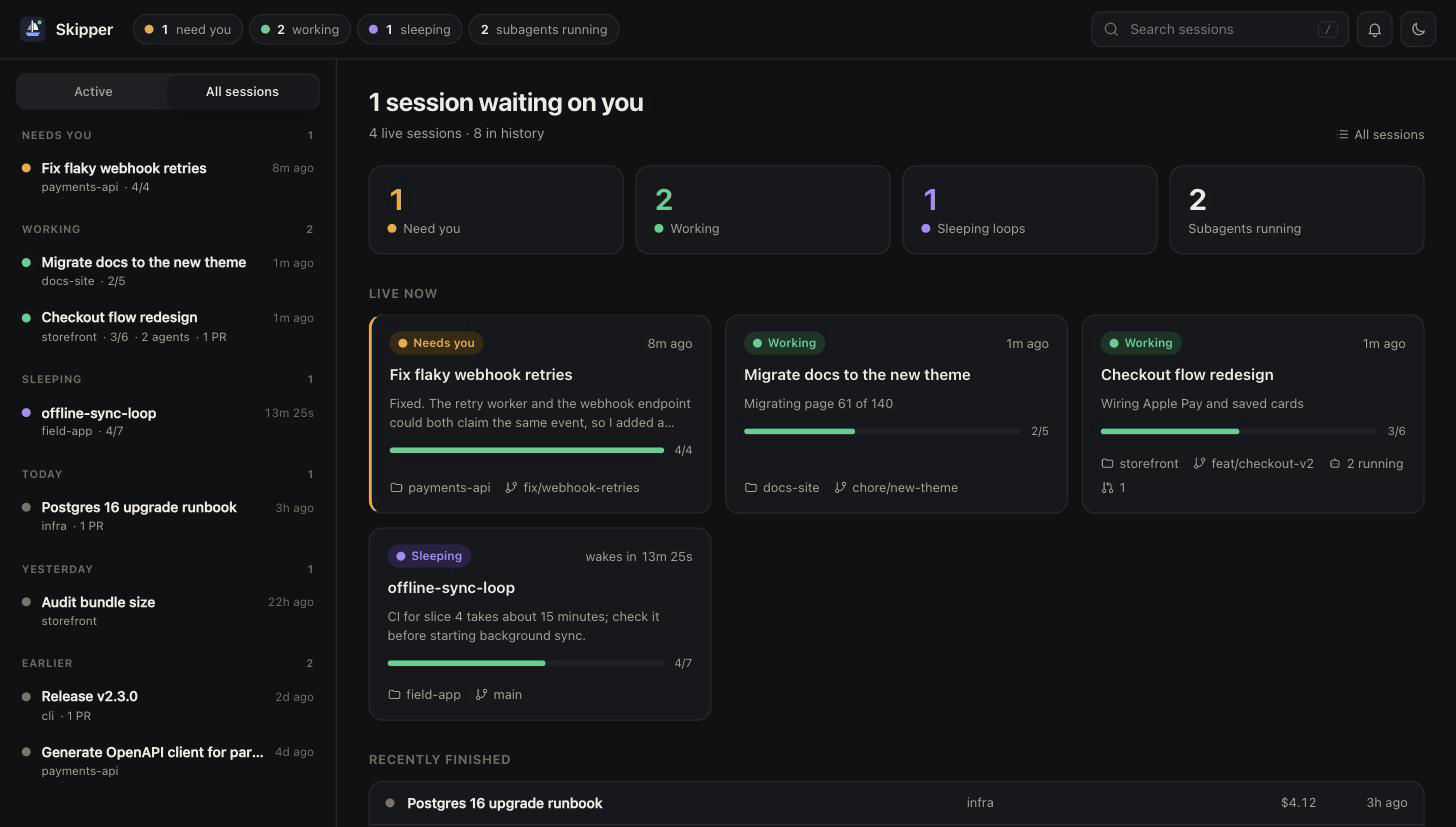
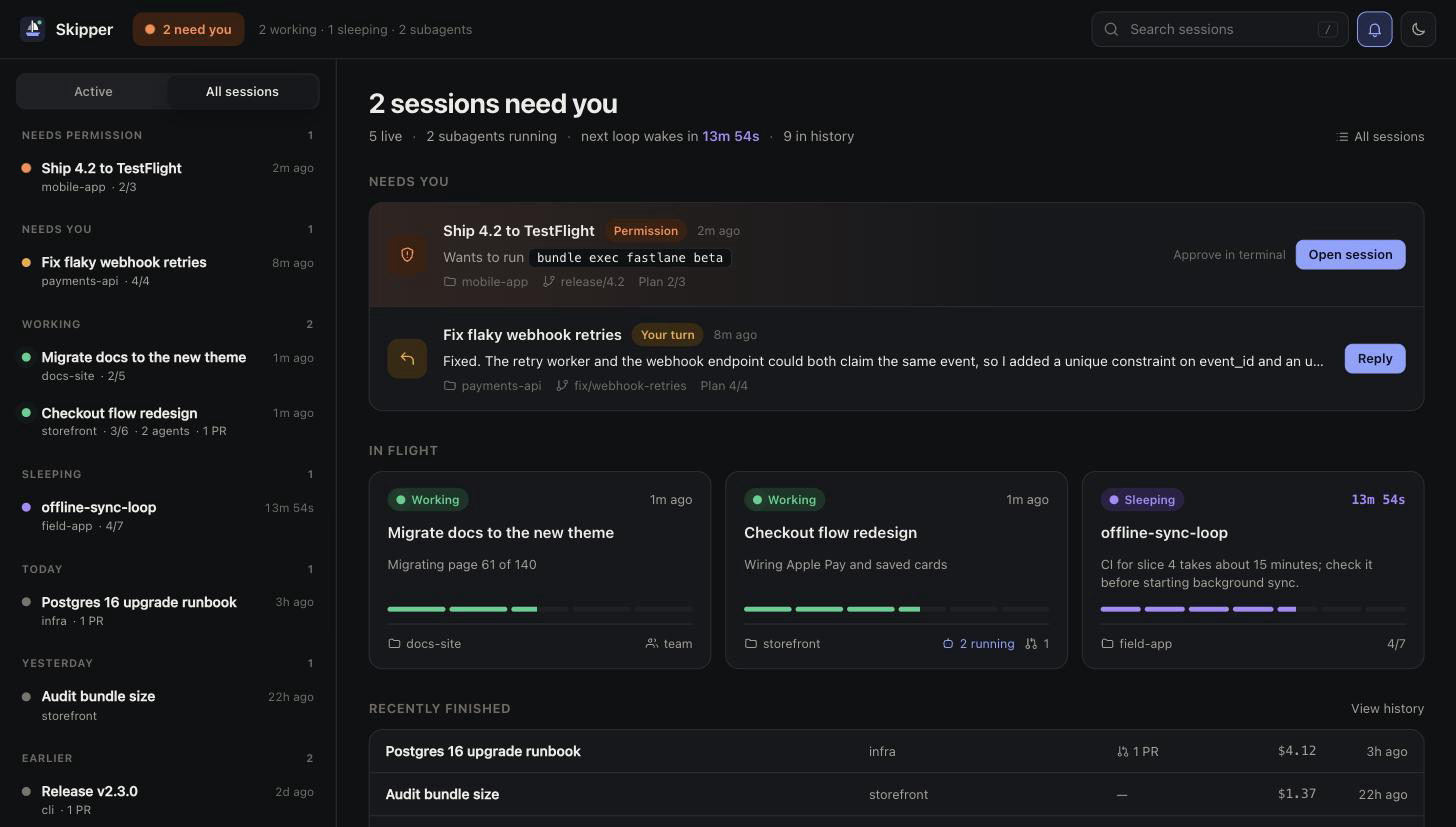
Redesign overview around an attention queue
- One ranked queue for sessions that need you, permission prompts first,
  showing the exact command and the next action
- In-flight cards with segmented plan progress and loop countdowns
- Single attention pill in the top bar with a quiet status summary
- Recently finished table with PR column
- Fix times between 45 and 59 seconds showing as 0m ago

diff --git a/public/app.js b/public/app.js
@@ -58,6 +58,8 @@ const ICONS = {
   sun: 'M12 3v2M12 19v2M5 5l1.4 1.4M17.6 17.6 19 19M3 12h2M19 12h2M5 19l1.4-1.4M17.6 6.4 19 5M12 16a4 4 0 1 0 0-8 4 4 0 0 0 0 8Z',
   moon: 'M20 14.5A8 8 0 0 1 9.5 4a8 8 0 1 0 10.5 10.5Z',
   list: 'M8 6h13M8 12h13M8 18h13M3 6h.01M3 12h.01M3 18h.01',
+  shield: 'M12 3 5 6v5c0 4.5 3 8.3 7 10 4-1.7 7-5.5 7-10V6ZM12 8v4M12 15.5h.01',
+  reply: 'M9 14 4 9l5-5M4 9h10a6 6 0 0 1 6 6v5',
   edit: 'M4 20h4L19 9l-4-4L4 16ZM13.5 6.5l4 4',
   trash: 'M4 7h16M10 11v6M14 11v6M6 7l1 13h10l1-13M9 7V4h6v3',
   send: 'M4 12 20 4l-6 16-3-7Z',
@@ -78,7 +80,7 @@ const now = () => Date.now() + state.serverOffset;
 function ago(ms) {
   if (!ms) return '';
   const s = Math.max(0, Math.round((now() - ms) / 1000));
-  if (s < 45) return 'just now';
+  if (s < 60) return 'just now';
   if (s < 3600) return `${Math.floor(s / 60)}m ago`;
   if (s < DAY / 1000) return `${Math.floor(s / 3600)}h ago`;
   if (s < 7 * DAY / 1000) return `${Math.floor(s / 86400)}d ago`;
@@ -328,12 +330,13 @@ function renderPulse() {
     if (counts[s.state] != null) counts[s.state]++;
     agents += s.agentsRunning;
   }
-  const pill = (dot, n, label, optional) => h('span', { class: `pulse${optional ? ' optional' : ''}` }, dot && h('i', { class: `dot ${dot}` }), h('b', {}, n), label);
+  const needsCount = counts.waiting + counts.permission;
+  const kind = counts.permission ? 'permission' : counts.waiting ? 'waiting' : 'clear';
   $('#pulse').replaceChildren(
-    pill(counts.permission ? 'permission' : 'waiting', counts.waiting + counts.permission, 'need you'),
-    pill('working', counts.working, 'working'),
-    pill('sleeping', counts.sleeping, 'sleeping', true),
-    pill(null, agents, agents === 1 ? 'subagent running' : 'subagents running', true),
+    h('a', { class: `attention-pill ${kind}`, href: '#/' },
+      h('i', { class: `dot ${kind === 'clear' ? 'working' : kind}` }),
+      needsCount ? `${needsCount} need${needsCount === 1 ? 's' : ''} you` : 'All clear'),
+    h('span', { class: 'pulse-summary' }, `${counts.working} working · ${counts.sleeping} sleeping · ${agents} subagent${agents === 1 ? '' : 's'}`),
   );
   const needs = counts.waiting + counts.permission;
   document.title = counts.permission ? `(${needs}) Permission needed · Skipper` : needs ? `(${needs}) Skipper` : 'Skipper';
@@ -388,22 +391,62 @@ function progress(done, total) {
   );
 }
 
+function segments(done, total, current, color = 'working') {
+  if (!total) return null;
+  const count = Math.min(total, 12);
+  const scale = total / count;
+  return h('div', { class: `segments ${color}`, role: 'img', 'aria-label': `${done} of ${total} done` },
+    Array.from({ length: count }, (_, i) => {
+      const filled = (i + 1) * scale <= done;
+      const active = !filled && current && i * scale < done + 1;
+      return h('i', { class: filled ? 'on' : active ? 'half' : '' });
+    }));
+}
+
+function metaItem(iconName, text, cls = '') {
+  return text ? h('span', { class: `meta ${cls}` }, iconName ? icon(iconName) : null, text) : null;
+}
+
+function queueRow(s) {
+  const permission = s.state === 'permission';
+  const ask = s.attention?.message || '';
+  const command = ask.match(/:\s*(.+)$/)?.[1];
+  return h('a', { class: `queue-row ${s.state}`, href: `#/s/${s.id}` },
+    h('span', { class: 'queue-icon' }, icon(permission ? 'shield' : 'reply')),
+    h('span', { class: 'queue-body' },
+      h('span', { class: 'queue-title' },
+        h('b', {}, s.title),
+        h('span', { class: `chip ${s.state}` }, permission ? (s.attention?.kind === 'question' ? 'Question' : 'Permission') : 'Your turn'),
+        h('span', { class: 'queue-when' }, relTime(permission ? s.attention?.at : s.updatedAt))),
+      permission
+        ? h('span', { class: 'queue-ask' }, command ? ['Wants to run ', h('code', {}, command)] : ask || 'Waiting for your approval in the terminal.')
+        : h('span', { class: 'queue-quote' }, plain(s.lastText || 'Claude finished and is waiting for you.')),
+      h('span', { class: 'queue-meta' },
+        metaItem('folder', s.project),
+        s.branch && s.branch !== 'HEAD' ? metaItem('branch', s.branch) : null,
+        s.todoTotal ? h('span', { class: 'meta' }, `Plan ${s.todoDone}/${s.todoTotal}`) : null)),
+    h('span', { class: 'queue-action' },
+      permission ? h('span', { class: 'hint' }, 'Approve in terminal') : null,
+      h('span', { class: 'btn small primary' }, permission ? 'Open session' : 'Reply')),
+  );
+}
+
 function sessionCard(s) {
-  return h('a', { class: `card ${s.state}`, href: `#/s/${s.id}` },
+  const sleeping = s.state === 'sleeping' && s.loop;
+  return h('a', { class: `card flight ${s.state}`, href: `#/s/${s.id}` },
     h('div', { class: 'card-top' },
       h('span', { class: `chip ${s.state}` }, h('i', { class: `dot ${s.state}` }), STATE_LABEL[s.state]),
-      h('span', { class: 'meta' }, s.state === 'sleeping' && s.loop ? ['wakes in ', untilTime(s.loop.wakeAt)] : relTime(s.updatedAt)),
-    ),
+      sleeping ? h('span', { class: 'countdown' }, untilTime(s.loop.wakeAt)) : h('span', { class: 'meta' }, relTime(s.updatedAt))),
     h('div', { class: 'card-title' }, s.title),
-    s.attention ? h('div', { class: 'card-now attention-text' }, s.attention.message || 'Waiting for your approval in the terminal.')
-      : s.current || s.lastText ? h('div', { class: 'card-now' }, plain(s.state === 'sleeping' && s.loop?.reason ? s.loop.reason : s.current || s.lastText)) : null,
-    progress(s.todoDone, s.todoTotal),
+    h('div', { class: 'card-now' }, plain(sleeping && s.loop.reason ? s.loop.reason : s.current || s.lastText || '')),
+    segments(s.todoDone, s.todoTotal, Boolean(s.current), sleeping ? 'sleeping' : 'working'),
     h('div', { class: 'card-foot' },
-      h('span', { class: 'meta' }, icon('folder'), s.project),
-      s.branch && s.branch !== 'HEAD' ? h('span', { class: 'meta' }, icon('branch'), s.branch) : null,
-      s.agentsRunning ? h('span', { class: 'meta' }, icon('bot'), `${s.agentsRunning} running`) : null,
-      s.prCount ? h('span', { class: 'meta' }, icon('pr'), s.prCount) : null,
-    ),
+      metaItem('folder', s.project),
+      h('span', { class: 'card-foot-right' },
+        s.agentsRunning ? metaItem('bot', `${s.agentsRunning} running`, 'accent') : null,
+        s.team ? metaItem('team', 'team') : null,
+        s.prCount ? metaItem('pr', String(s.prCount)) : null,
+        sleeping && s.todoTotal ? h('span', { class: 'meta' }, `${s.todoDone}/${s.todoTotal}`) : null)),
   );
 }
 
@@ -416,38 +459,42 @@ function renderOverview() {
     );
   }
   const live = state.sessions.filter((s) => s.live && matches(s));
-  const order = { permission: 0, waiting: 1, working: 2, sleeping: 3 };
-  live.sort((a, b) => order[a.state] - order[b.state] || b.updatedAt - a.updatedAt);
-  const recent = state.sessions.filter((s) => !s.live && matches(s)).slice(0, 8);
+  const queue = live.filter((s) => s.state === 'permission' || s.state === 'waiting')
+    .sort((a, b) => (a.state === 'permission' ? 0 : 1) - (b.state === 'permission' ? 0 : 1) || b.updatedAt - a.updatedAt);
+  const flight = live.filter((s) => s.state === 'working' || s.state === 'sleeping')
+    .sort((a, b) => (a.state === 'working' ? 0 : 1) - (b.state === 'working' ? 0 : 1) || b.updatedAt - a.updatedAt);
+  const recent = state.sessions.filter((s) => !s.live && matches(s)).slice(0, 6);
+  const nextWake = live.map((s) => s.loop?.wakeAt).filter((t) => t > now()).sort()[0];
+  const needs = queue.length;
 
-  const stat = (cls, n, label) => h('div', { class: `stat ${cls}` }, h('div', { class: 'num' }, n), h('div', { class: 'label' }, cls && h('i', { class: `dot ${cls}` }), label));
-
-  return h('div', {},
+  return h('div', { class: 'overview' },
     h('div', { class: 'page-head' },
       h('div', {},
-        h('h1', {}, counts.permission ? `${counts.permission} session${counts.permission > 1 ? 's' : ''} need${counts.permission > 1 ? '' : 's'} your permission` : counts.waiting ? `${counts.waiting} session${counts.waiting > 1 ? 's' : ''} waiting on you` : live.length ? 'Everything is moving' : 'All quiet'),
-        h('p', { class: 'lede' }, `${live.length} live session${live.length === 1 ? '' : 's'} · ${state.sessions.length} in history`),
+        h('h1', {}, needs ? `${needs} session${needs > 1 ? 's' : ''} need${needs > 1 ? '' : 's'} you` : live.length ? 'Everything is moving' : 'All quiet'),
+        h('p', { class: 'status-line' },
+          h('span', {}, `${live.length} live`),
+          counts.agents ? h('span', {}, `${counts.agents} subagent${counts.agents > 1 ? 's' : ''} running`) : null,
+          nextWake ? h('span', {}, 'next loop wakes in ', h('b', { class: 'sleeping-text' }, untilTime(nextWake))) : null,
+          h('span', {}, `${state.sessions.length} in history`)),
       ),
       h('a', { class: 'meta', href: '#/sessions' }, icon('list'), 'All sessions'),
     ),
-    h('div', { class: 'stats' },
-      stat(counts.permission ? 'permission' : 'waiting', counts.waiting + counts.permission, 'Need you'),
-      stat('working', counts.working, 'Working'),
-      stat('sleeping', counts.sleeping, 'Sleeping loops'),
-      stat('', counts.agents, 'Subagents running'),
-    ),
+    queue.length ? h('section', { class: 'section' },
+      h('h2', {}, 'Needs you'),
+      h('div', { class: 'queue' }, queue.map(queueRow)),
+    ) : null,
     h('section', { class: 'section' },
-      h('h2', {}, 'Live now'),
-      live.length ? h('div', { class: 'cards' }, live.map(sessionCard)) : h('p', { class: 'muted' }, 'No Claude Code session is running right now.'),
+      h('h2', {}, 'In flight'),
+      flight.length ? h('div', { class: 'cards' }, flight.map(sessionCard)) : h('p', { class: 'muted' }, live.length ? 'Nothing is running right now.' : 'No Claude Code session is running right now.'),
     ),
     recent.length ? h('section', { class: 'section' },
-      h('h2', {}, 'Recently finished'),
+      h('div', { class: 'section-head' }, h('h2', {}, 'Recently finished'), h('a', { class: 'meta', href: '#/sessions' }, 'View history')),
       h('div', { class: 'table' }, recent.map((s) =>
         h('a', { class: 'row', href: `#/s/${s.id}` },
-          h('i', { class: 'dot ended' }),
           h('span', { class: 'title' }, s.title),
           h('span', { class: 'dim hide-sm' }, s.project),
-          h('span', { class: 'num hide-sm' }, s.costUsd != null ? `$${s.costUsd.toFixed(2)}` : ''),
+          h('span', { class: 'dim hide-sm' }, s.prCount ? [icon('pr'), ` ${s.prCount} PR`] : '—'),
+          h('span', { class: 'num hide-sm mono' }, s.costUsd != null ? `$${s.costUsd.toFixed(2)}` : ''),
           h('span', { class: 'num' }, relTime(s.updatedAt)),
         ),
       )),

diff --git a/public/app.css b/public/app.css
@@ -487,3 +487,67 @@ button.box:hover { border-color: var(--accent); }
 .menu button[role="menuitemcheckbox"][aria-checked="true"]::after { content: "✓"; margin-left: auto; color: var(--accent); }
 .menu-note { margin: 4px 10px 6px; padding-top: 8px; border-top: 1px solid var(--border); color: var(--muted); font-size: 12px; }
 .menu-note code { font-family: var(--mono); background: var(--surface-2); padding: 1px 5px; border-radius: 5px; }
+
+/* ---------- Redesign: attention queue overview ---------- */
+.attention-pill { display: inline-flex; align-items: center; gap: 8px; height: 34px; padding: 0 12px; border-radius: 10px; font-weight: 650; font-size: 13px; white-space: nowrap; background: var(--surface); border: 1px solid var(--border); color: var(--muted); }
+.attention-pill:hover { text-decoration: none; }
+.attention-pill.permission { background: var(--permission-soft); border-color: transparent; color: var(--permission); }
+.attention-pill.permission .dot { box-shadow: 0 0 0 4px color-mix(in srgb, var(--permission) 20%, transparent); }
+.attention-pill.waiting { background: var(--waiting-soft); border-color: transparent; color: var(--waiting); }
+.pulse-summary { color: var(--faint); font-size: 13px; white-space: nowrap; overflow: hidden; text-overflow: ellipsis; }
+.pulse-strip { align-items: center; gap: 14px; }
+
+.overview .page-head { margin-bottom: 26px; }
+.overview h1 { font-size: 28px; }
+.status-line { display: flex; flex-wrap: wrap; gap: 4px 0; margin: 6px 0 0; color: var(--muted); }
+.status-line > span + span::before { content: "·"; margin: 0 10px; color: var(--faint); }
+.sleeping-text { color: var(--sleeping); font-weight: 600; }
+.section-head { display: flex; justify-content: space-between; align-items: center; margin-bottom: 12px; }
+.section-head h2 { margin: 0; }
+
+.queue { display: flex; flex-direction: column; background: var(--surface); border: 1px solid var(--border); border-radius: var(--radius); overflow: hidden; }
+.queue-row { display: grid; grid-template-columns: 40px minmax(0, 1fr) auto; gap: 16px; align-items: center; padding: 16px 18px; color: var(--text); border-top: 1px solid var(--border); }
+.queue-row:first-child { border-top: 0; }
+.queue-row:hover { text-decoration: none; background: var(--surface-2); }
+.queue-row.permission { background: linear-gradient(90deg, color-mix(in srgb, var(--permission) 11%, transparent), transparent 60%); }
+.queue-row.permission:hover { background: linear-gradient(90deg, color-mix(in srgb, var(--permission) 16%, transparent), var(--surface-2) 60%); }
+.queue-icon { display: grid; place-items: center; width: 40px; height: 40px; border-radius: 11px; background: var(--waiting-soft); color: var(--waiting); }
+.queue-row.permission .queue-icon { background: var(--permission-soft); color: var(--permission); }
+.queue-body { display: flex; flex-direction: column; gap: 5px; min-width: 0; }
+.queue-title { display: flex; align-items: center; gap: 10px; min-width: 0; }
+.queue-title b { font-weight: 640; font-size: 15px; white-space: nowrap; overflow: hidden; text-overflow: ellipsis; }
+.queue-when { color: var(--faint); font-size: 12.5px; white-space: nowrap; }
+.queue-ask { color: var(--muted); white-space: nowrap; overflow: hidden; text-overflow: ellipsis; }
+.queue-ask code { font-family: var(--mono); font-size: 12.5px; padding: 2px 8px; border-radius: 6px; background: var(--bg); border: 1px solid var(--border); color: var(--text); }
+.queue-quote { white-space: nowrap; overflow: hidden; text-overflow: ellipsis; }
+.queue-meta { display: flex; gap: 14px; }
+.queue-meta .meta { font-size: 12.5px; color: var(--faint); }
+.queue-action { display: flex; align-items: center; gap: 10px; }
+.queue-action .hint { white-space: nowrap; }
+
+.card.flight { gap: 12px; }
+.card.flight.waiting { border-left: 1px solid var(--border); }
+.card.flight .card-now { min-height: 40px; }
+.countdown { font-family: var(--mono); font-size: 13px; font-weight: 600; color: var(--sleeping); }
+.segments { display: grid; grid-auto-flow: column; grid-auto-columns: minmax(0, 1fr); gap: 4px; }
+.segments i { height: 5px; border-radius: 3px; background: var(--surface-2); }
+.segments.working i.on { background: var(--working); }
+.segments.working i.half { background: linear-gradient(90deg, var(--working) 45%, var(--surface-2) 45%); }
+.segments.sleeping i.on { background: var(--sleeping); }
+.segments.sleeping i.half { background: linear-gradient(90deg, var(--sleeping) 45%, var(--surface-2) 45%); }
+.card.flight .card-foot { justify-content: space-between; padding-top: 10px; border-top: 1px solid var(--border); margin-top: auto; }
+.card-foot-right { display: flex; gap: 10px; }
+.card-foot .meta { font-size: 12.5px; }
+.meta.accent { color: var(--accent); }
+.overview .row { grid-template-columns: minmax(0, 2fr) minmax(0, 1fr) 110px 80px 80px; }
+.overview .row .dim svg { width: 13px; height: 13px; vertical-align: -2px; }
+
+@media (max-width: 900px) {
+  .queue-row { grid-template-columns: 36px minmax(0, 1fr); padding: 14px; gap: 12px; }
+  .queue-icon { width: 36px; height: 36px; }
+  .queue-action { display: none; }
+  .queue-quote { white-space: normal; display: -webkit-box; -webkit-line-clamp: 2; -webkit-box-orient: vertical; }
+  .queue-title .chip { display: none; }
+  .overview .row { grid-template-columns: minmax(0, 1fr) 70px; }
+  .overview h1 { font-size: 24px; }
+}
